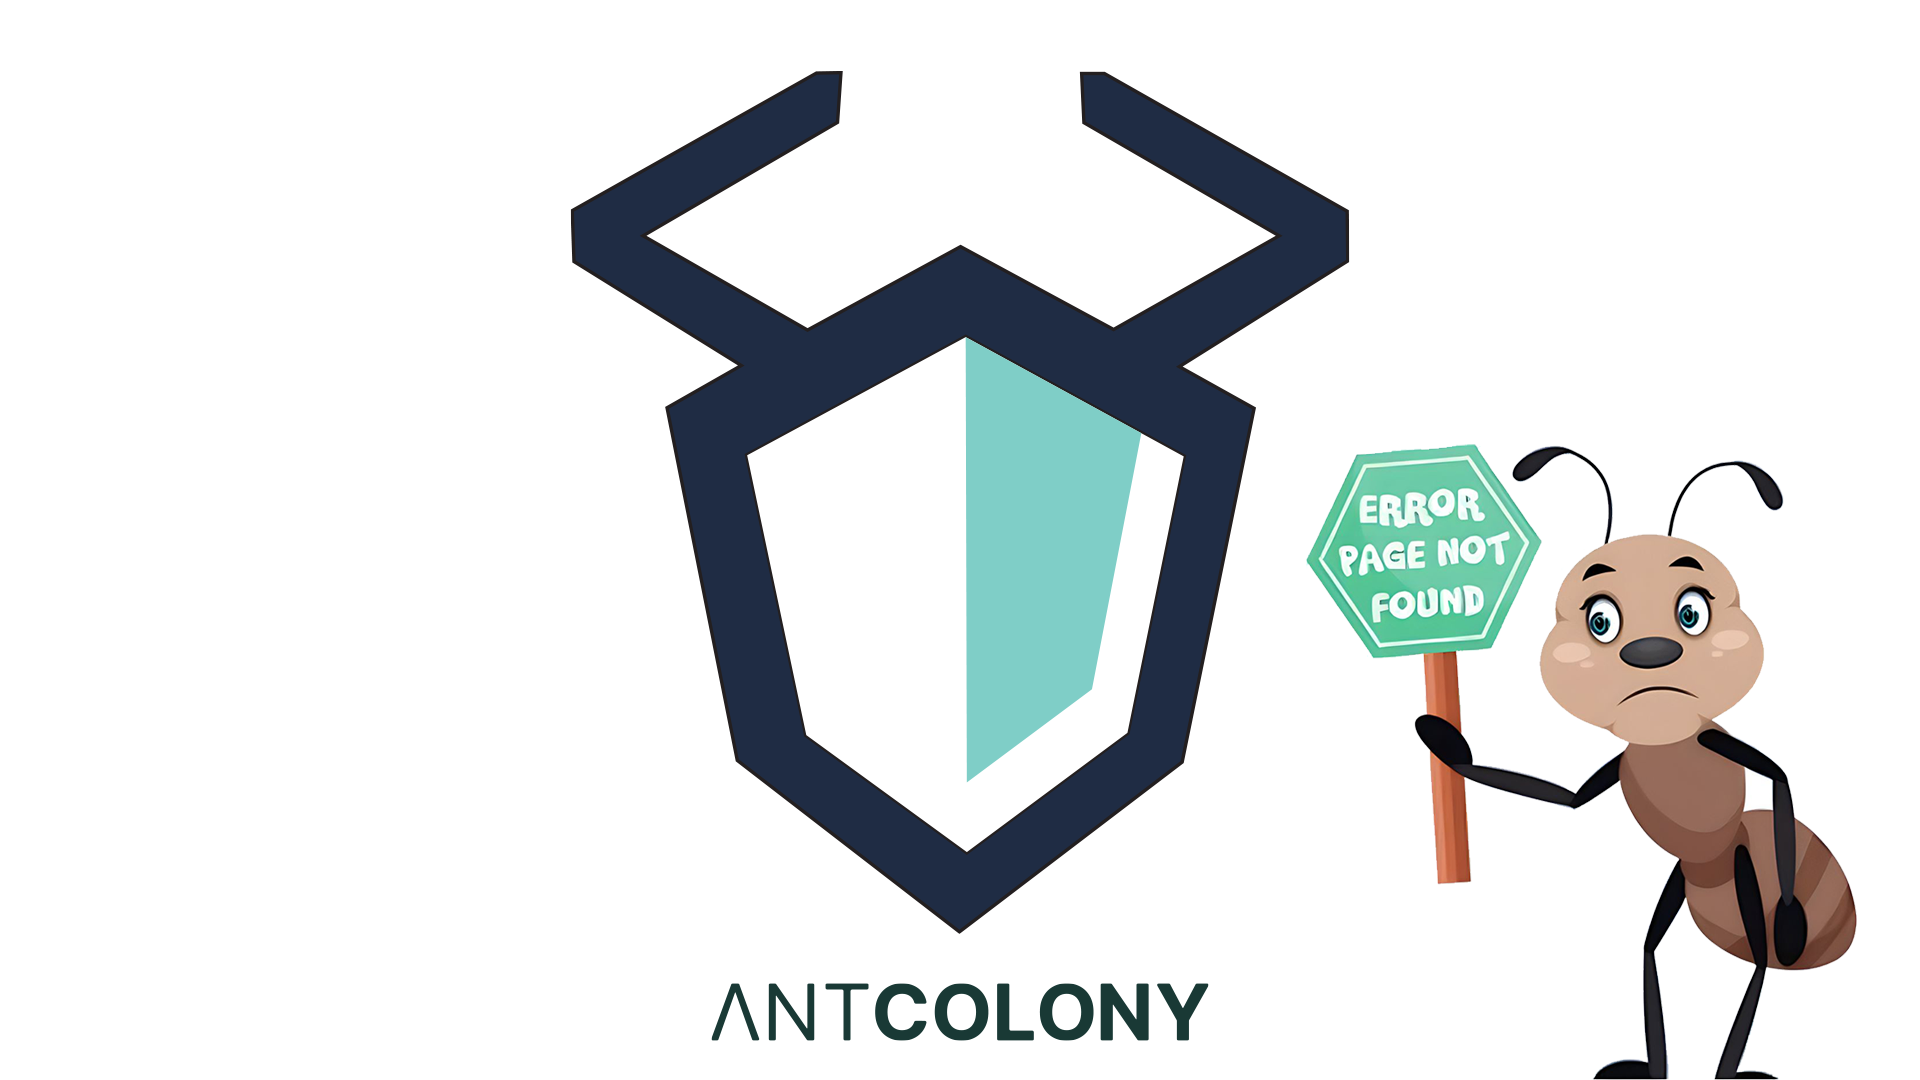
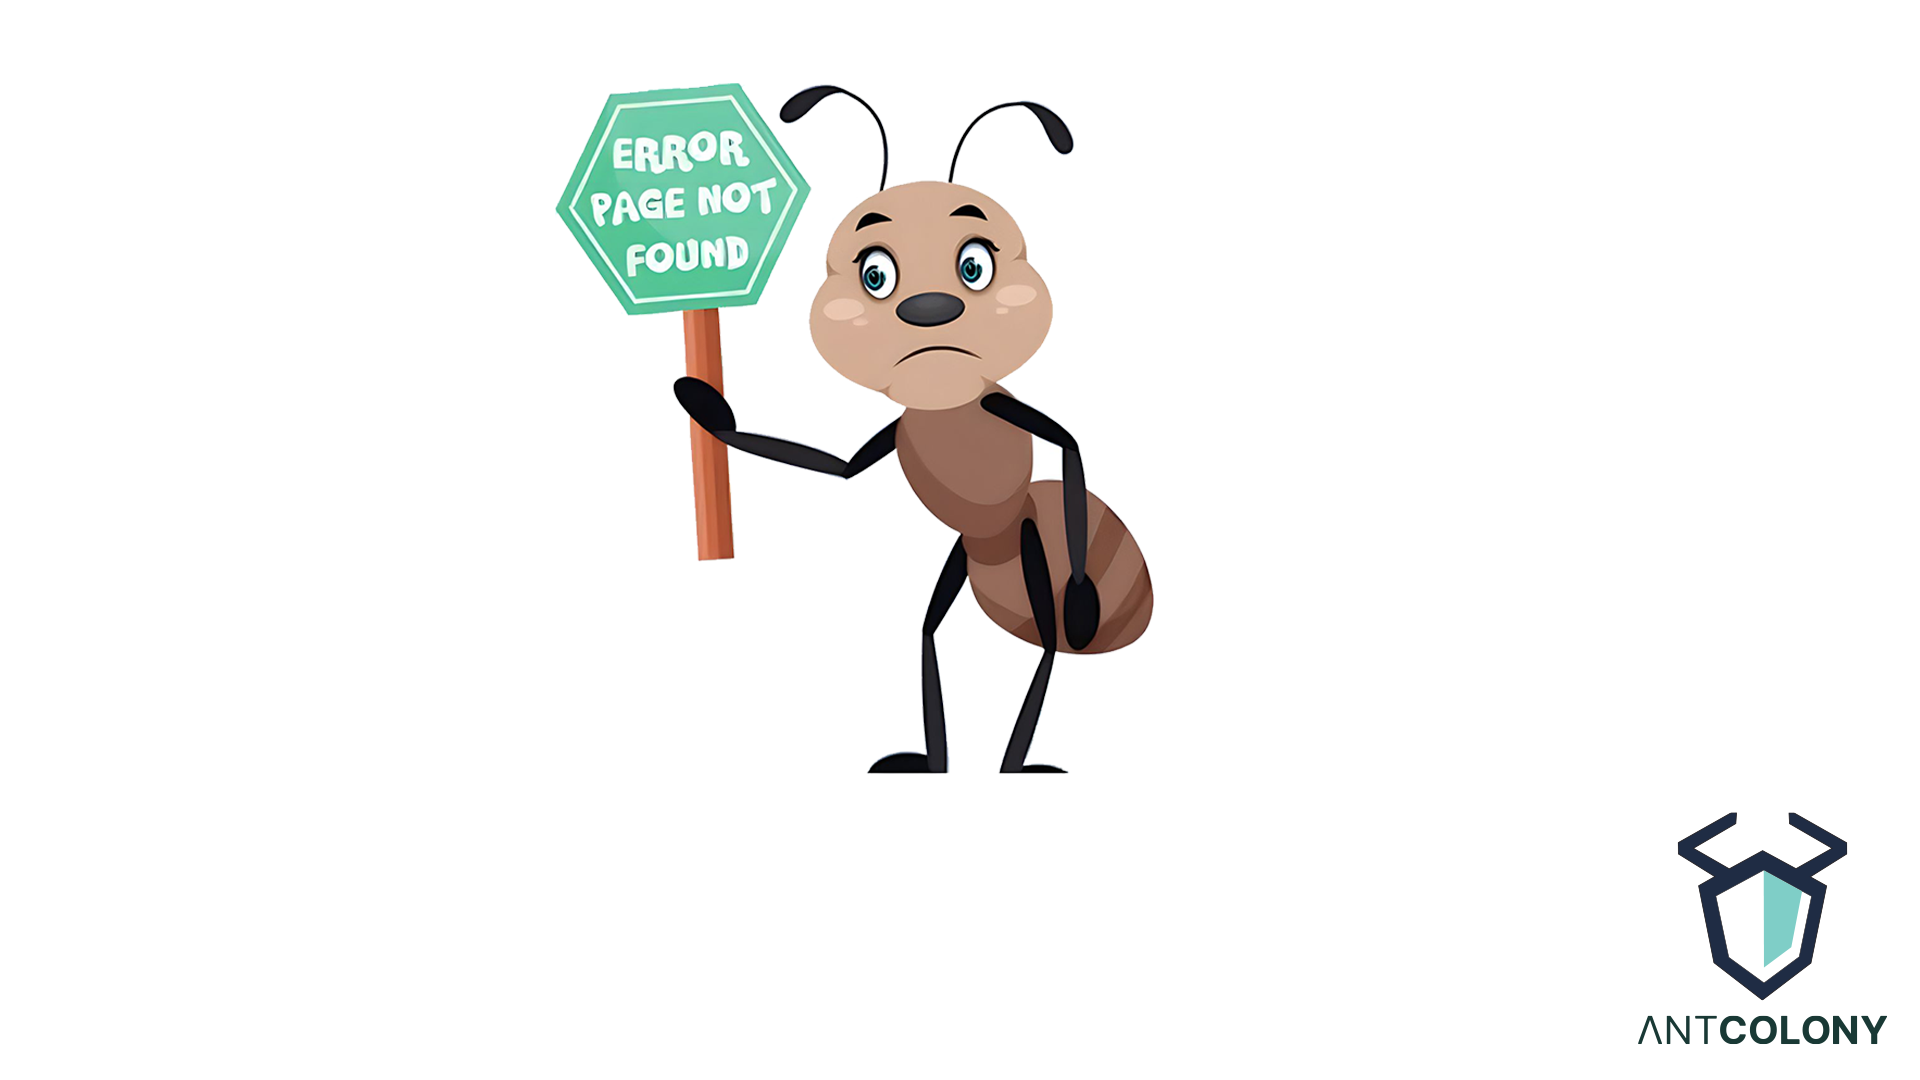
page not found

Changed region(s): [[0.2812, 0.0611, 1.0, 1.0], [0.375, 0.8861, 0.625, 0.9778], [0.875, 0.4278, 0.9375, 0.4889]]

diff --git a/src/components/notFound/NotFound.scss b/src/components/notFound/NotFound.scss
@@ -2,22 +2,36 @@
 @import '../../utilis/colors';
 
 .not-found-container {
-  background-image: url("../../images/custom404/notFound.png");
-  background-repeat: no-repeat;
   position: fixed;
   left: 0;
   right: 0;
   top: 0;
   bottom: 0;
-  text-align: center;
+  display: flex;
+  flex-direction: column;
+  align-items: center;
+  justify-content: center;
   background-size: 100% 100%;
+}
+
+.ant-image {
+  width: 600px;
+  height: 600px;
+  margin-right: 160px;
+}
+
+.ant-logo-image {
+  width: 200px;
+  height: 200px;
+  position: fixed;
+  bottom: 20px;
+  right: 20px;
 }
 
 
 .not-found-button {
   @include button-styles;
   border-radius: 6px;
-  margin-top: 145px;
   width: 250px;
   font-size: 18px;
 }
@@ -30,4 +44,16 @@
 .not-found-button:active {
   background-color: $dark-green-color;
   transform: scale(0.95);
+}
+
+@media screen and (max-width: 767px) {
+  .ant-image {
+    width: 300px; 
+    height: 300px; 
+    margin-right: 80px; 
+  }
+
+  .ant-logo-image {
+    display: none; 
+  }
 }

diff --git a/src/components/notFound/NotFound.js b/src/components/notFound/NotFound.js
@@ -1,6 +1,9 @@
 import {Navigate, useNavigate} from "react-router-dom";
 import errorImage from "../../images/custom404/notFound.png"
 import "./NotFound.scss"
+import antImage from "../../images/custom404/ant.png";
+import antLogo from "../../images/custom404/antlogo.png";
+
 
 export const NotFound = () => {
   const navigate = useNavigate()
@@ -10,10 +13,15 @@ export const NotFound = () => {
   }
 
   return (
-    <div className="not-found-container" >
-      <button className="not-found-button" onClick={redirectClick} >
+    
+    <div className="not-found-container">
+      <img src={antImage} alt="Ant" className="ant-image" />
+      <button className="not-found-button" onClick={redirectClick}>
         Go to Previous Page
       </button>
+      <div>
+     <img src={antLogo} alt="AntColony-Logo" className="ant-logo-image" />
     </div>
-  )
+    </div>
+  );
 }
